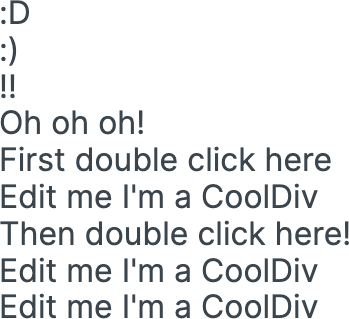
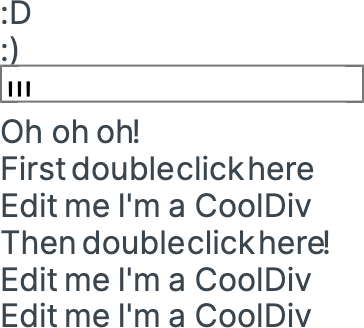
[ecu] Edit text on component App

Changed region(s): [[0.0, 0.1129, 1.0, 1.0], [0.0, 0.0, 0.086, 0.0846]]

diff --git a/app/src/App.tsx b/app/src/App.tsx
@@ -46,6 +46,8 @@ function App(props: AppPropsType) {
       <Text data-ecu="bPO8puWJxw:1">:)</Text>
       <Text data-ecu="bPO8puWJxw:2">
         !!!
+
+        foo
       </Text>
       <Text data-ecu="bPO8puWJxw:3">Oh oh oh!</Text>
       <Text data-ecu="bPO8puWJxw:4">First double click here</Text>
